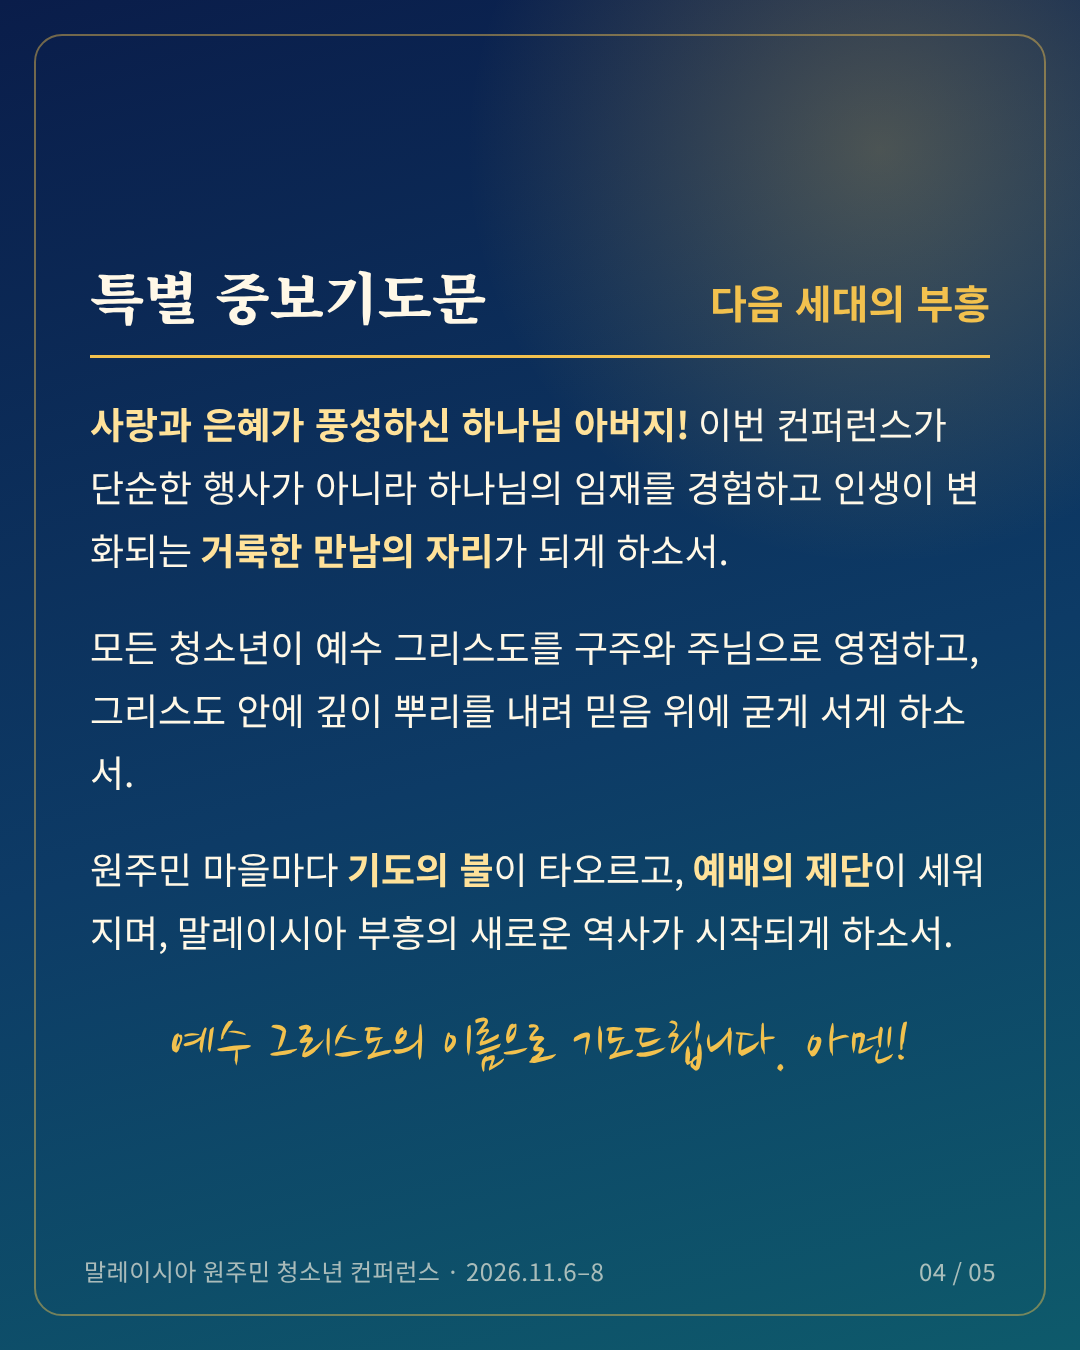
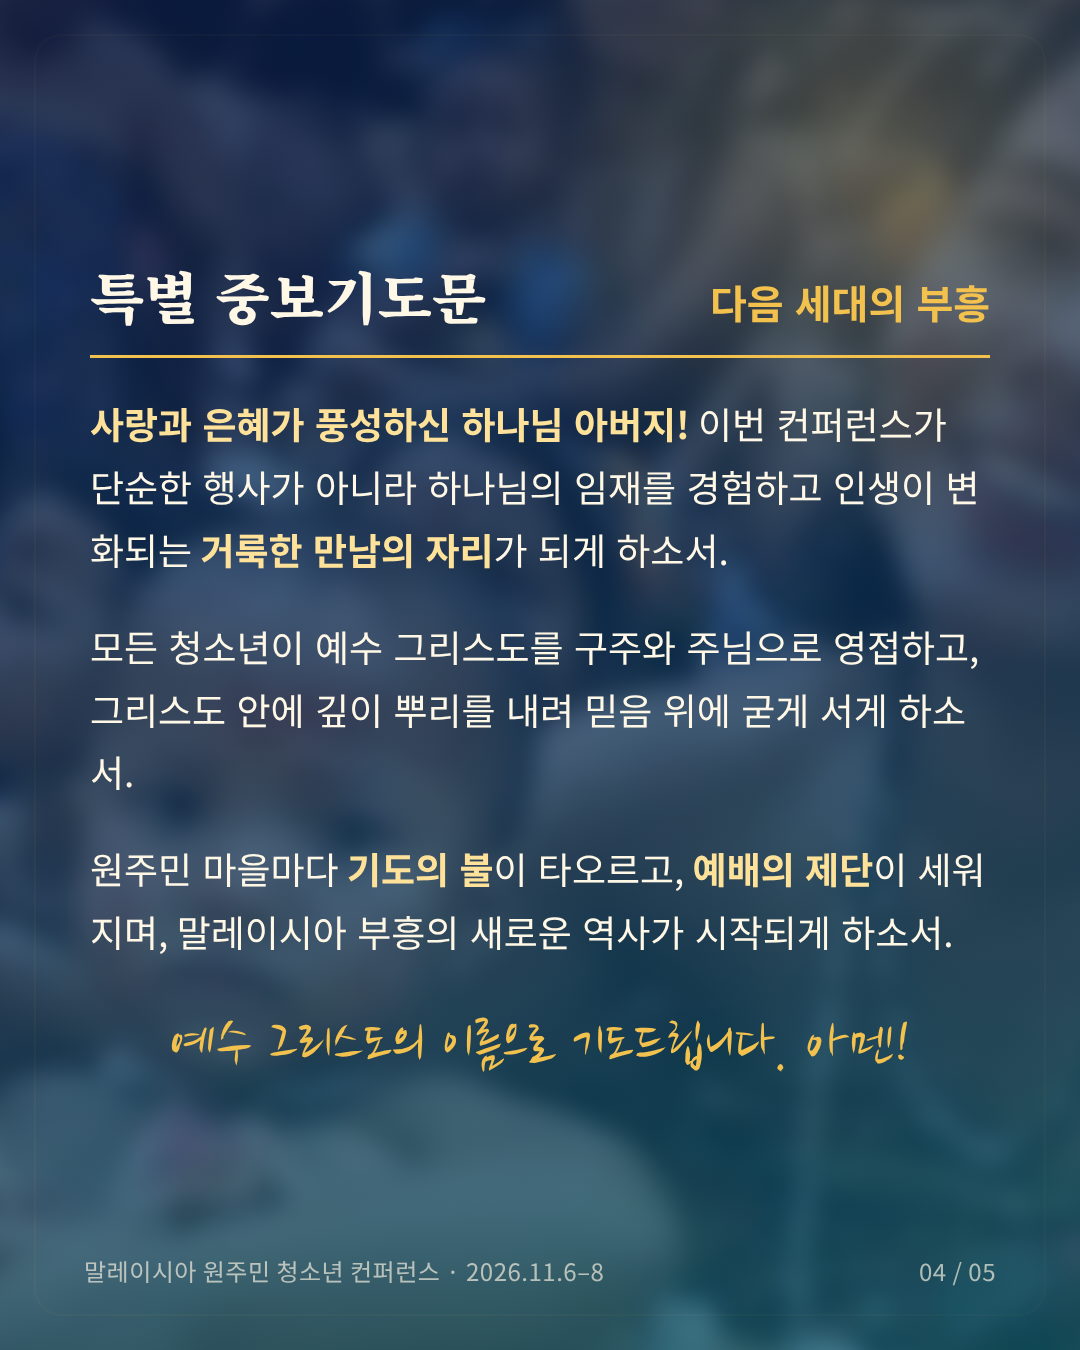
Add blurred photo backgrounds to card news and prayer letter
Claude-Session: https://claude.ai/code/session_01VtibxV4NqRSYxh7RdkETjb

diff --git a/cardnews/cards.html b/cardnews/cards.html
@@ -38,9 +38,9 @@ h1.mid{font-size:84px}
 .days{display:flex;flex-direction:column;gap:22px;position:relative;z-index:1}.two2 .day{padding:34px 40px}.two2 .verse{font-size:56px}
 .rows{display:flex;flex-direction:column;gap:12px;position:relative;z-index:1}.row{display:flex;align-items:center;gap:28px;background:rgba(255,255,255,.07);border-radius:20px;padding:12px 28px}.num.sm{width:56px;height:56px;font-size:28px}.rt{font-size:38px;font-weight:700;color:#fff8e7}
 .list{justify-content:flex-start;padding-top:100px;gap:28px}
-.photo{position:absolute;inset:-40px;width:calc(100% + 80px);height:calc(100% + 80px);object-fit:cover;filter:blur(9px) saturate(.9);opacity:.75}
+.photo{position:absolute;inset:-40px;width:calc(100% + 80px);height:calc(100% + 80px);object-fit:cover;filter:blur(12px) saturate(.9);opacity:.8}
 .shade{position:absolute;inset:0;background:linear-gradient(165deg,rgba(10,29,74,.72),rgba(13,59,102,.6) 55%,rgba(14,90,107,.7))}
-</style><body><section class="card cover"><div class="glow"></div><div class="center"><div class="pill">PRAYER CARD NEWS</div>
+</style><body><section class="card cover"><img class="photo" src="photo_a.jpg"><div class="shade"></div><div class="glow"></div><div class="center"><div class="pill">PRAYER CARD NEWS</div>
 <div class="small">말레이시아 원주민 마을</div><h1>청소년 컨퍼런스를<br>위한 기도</h1>
 <div class="brush">그리스도 안에 뿌리를 내리고<br>믿음 위에 세움을 받으라</div>
 <div class="date">2026년 11월 6일 – 8일</div></div><svg class="roots" viewBox="0 0 1080 360" preserveAspectRatio="none"><g fill="none" stroke="#f2c14e" stroke-linecap="round" opacity=".35">
@@ -49,19 +49,19 @@ h1.mid{font-size:84px}
 <path d="M540 140 C610 170 700 200 760 260 C800 300 840 330 900 350" stroke-width="9"/>
 <path d="M540 200 C560 250 600 290 640 350" stroke-width="7"/>
 <path d="M330 250 C300 280 300 310 270 350" stroke-width="5"/><path d="M760 260 C790 290 780 320 810 350" stroke-width="5"/></g></svg>
-  <div class="foot"><span>말레이시아 원주민 청소년 컨퍼런스 · 2026.11.6–8</span><span>01 / 05</span></div></section><section class="card two2"><div class="glow"></div><div class="center"><div class="label">주제 말씀 · 골로새서 2:7</div>
+  <div class="foot"><span>말레이시아 원주민 청소년 컨퍼런스 · 2026.11.6–8</span><span>01 / 05</span></div></section><section class="card two2"><img class="photo" src="photo_c.jpg"><div class="shade"></div><div class="glow"></div><div class="center"><div class="label">주제 말씀 · 골로새서 2:7</div>
 <p class="verse">“그 안에 뿌리를 박으며 세움을 받아<br>교훈을 받은 대로 <b>믿음에 굳게 서서</b><br>감사함을 넘치게 하라.”</p></div>
 <div class="days">
 <div class="day"><div class="d">11.6</div><div><h3>예수님을 만나는 날</h3><p>요한복음 3:3</p></div></div>
 <div class="day"><div class="d">11.7</div><div><h3>믿음에 뿌리를 내리는 날</h3><p>골로새서 2:7</p></div></div>
 <div class="day"><div class="d">11.8</div><div><h3>부르심과 사명으로 일어나는 날</h3><p>이사야 6:8</p></div></div></div>
-  <div class="foot"><span>말레이시아 원주민 청소년 컨퍼런스 · 2026.11.6–8</span><span>02 / 05</span></div></section><section class="card list"><div class="glow"></div><div class="head"><span>10가지 기도 제목</span><b>PRAY</b></div><div class="rows"><div class="row"><div class="num sm">1</div><div class="rt">청소년들의 마음을 준비하도록</div></div><div class="row"><div class="num sm">2</div><div class="rt">성령의 임재와 기름 부으심</div></div><div class="row"><div class="num sm">3</div><div class="rt">말씀을 통한 믿음의 뿌리</div></div><div class="row"><div class="num sm">4</div><div class="rt">다음 세대의 정체성과 비전</div></div><div class="row"><div class="num sm">5</div><div class="rt">죄와 어둠의 권세로부터 보호</div></div><div class="row"><div class="num sm">6</div><div class="rt">찬양과 예배의 부흥</div></div><div class="row"><div class="num sm">7</div><div class="rt">강사와 사역자들에게 성령의 능력을</div></div><div class="row"><div class="num sm">8</div><div class="rt">안전과 건강을 위한 보호</div></div><div class="row"><div class="num sm">9</div><div class="rt">가정과 마을의 구원과 회복</div></div><div class="row"><div class="num sm">10</div><div class="rt">말레이시아 부흥의 새로운 세대</div></div></div>
-  <div class="foot"><span>말레이시아 원주민 청소년 컨퍼런스 · 2026.11.6–8</span><span>03 / 05</span></div></section><section class="card "><div class="glow"></div><div class="head"><span>특별 중보기도문</span><b>다음 세대의 부흥</b></div>
+  <div class="foot"><span>말레이시아 원주민 청소년 컨퍼런스 · 2026.11.6–8</span><span>02 / 05</span></div></section><section class="card list"><img class="photo" src="photo_b.jpg"><div class="shade"></div><div class="glow"></div><div class="head"><span>10가지 기도 제목</span><b>PRAY</b></div><div class="rows"><div class="row"><div class="num sm">1</div><div class="rt">청소년들의 마음을 준비하도록</div></div><div class="row"><div class="num sm">2</div><div class="rt">성령의 임재와 기름 부으심</div></div><div class="row"><div class="num sm">3</div><div class="rt">말씀을 통한 믿음의 뿌리</div></div><div class="row"><div class="num sm">4</div><div class="rt">다음 세대의 정체성과 비전</div></div><div class="row"><div class="num sm">5</div><div class="rt">죄와 어둠의 권세로부터 보호</div></div><div class="row"><div class="num sm">6</div><div class="rt">찬양과 예배의 부흥</div></div><div class="row"><div class="num sm">7</div><div class="rt">강사와 사역자들에게 성령의 능력을</div></div><div class="row"><div class="num sm">8</div><div class="rt">안전과 건강을 위한 보호</div></div><div class="row"><div class="num sm">9</div><div class="rt">가정과 마을의 구원과 회복</div></div><div class="row"><div class="num sm">10</div><div class="rt">말레이시아 부흥의 새로운 세대</div></div></div>
+  <div class="foot"><span>말레이시아 원주민 청소년 컨퍼런스 · 2026.11.6–8</span><span>03 / 05</span></div></section><section class="card "><img class="photo" src="photo_c.jpg"><div class="shade"></div><div class="glow"></div><div class="head"><span>특별 중보기도문</span><b>다음 세대의 부흥</b></div>
 <p class="body"><b>사랑과 은혜가 풍성하신 하나님 아버지!</b> 이번 컨퍼런스가 단순한 행사가 아니라 하나님의 임재를 경험하고 인생이 변화되는 <b>거룩한 만남의 자리</b>가 되게 하소서.</p>
 <p class="body">모든 청소년이 예수 그리스도를 구주와 주님으로 영접하고, 그리스도 안에 깊이 뿌리를 내려 믿음 위에 굳게 서게 하소서.</p>
 <p class="body">원주민 마을마다 <b>기도의 불</b>이 타오르고, <b>예배의 제단</b>이 세워지며, 말레이시아 부흥의 새로운 역사가 시작되게 하소서.</p>
 <p class="amen">예수 그리스도의 이름으로 기도드립니다. 아멘!</p>
-  <div class="foot"><span>말레이시아 원주민 청소년 컨퍼런스 · 2026.11.6–8</span><span>04 / 05</span></div></section><section class="card cover"><div class="glow"></div><div class="center"><div class="brush big">원주민 마을마다<br>기도의 불이 타오르게 하소서</div>
+  <div class="foot"><span>말레이시아 원주민 청소년 컨퍼런스 · 2026.11.6–8</span><span>04 / 05</span></div></section><section class="card cover"><img class="photo" src="photo_a.jpg"><div class="shade"></div><div class="glow"></div><div class="center"><div class="brush big">원주민 마을마다<br>기도의 불이 타오르게 하소서</div>
 <div class="pill">함께 기도해 주세요</div>
 <p class="body c">11월 6일 – 8일, 3일간의 은혜의 자리를 위해<br>이 카드를 나누고 기도에 동참해 주세요.</p></div><svg class="roots" viewBox="0 0 1080 360" preserveAspectRatio="none"><g fill="none" stroke="#f2c14e" stroke-linecap="round" opacity=".35">
 <path d="M540 0 C540 80 540 140 540 200 C540 260 520 300 470 340" stroke-width="14"/>

diff --git a/letter/letter.html b/letter/letter.html
@@ -4,7 +4,7 @@
 @font-face{font-family:B;src:url(NanumBrushScript-Regular.ttf)}
 *{box-sizing:border-box;margin:0}
 .card{width:1080px;height:1350px;position:relative;overflow:hidden;color:#fff8e7;background:#10261a;padding:90px 96px 120px;display:flex;flex-direction:column;justify-content:center;gap:30px}
-.photo{position:absolute;inset:-40px;width:calc(100% + 80px);height:calc(100% + 80px);object-fit:cover;filter:blur(9px) saturate(.9);opacity:.8}
+.photo{position:absolute;inset:-40px;width:calc(100% + 80px);height:calc(100% + 80px);object-fit:cover;filter:blur(12px) saturate(.9);opacity:.85}
 .shade{position:absolute;inset:0;background:linear-gradient(180deg,rgba(8,22,40,.6),rgba(8,22,40,.5) 45%,rgba(8,22,40,.78))}
 .card:before{content:"";position:absolute;inset:34px;border:2px solid rgba(242,193,78,.5);border-radius:28px;z-index:2}
 .in{position:relative;z-index:3;display:flex;flex-direction:column;gap:22px}
@@ -17,13 +17,7 @@ p{font:400 33px/1.7 Se;word-break:keep-all}p b{color:#ffe29a;font-weight:700}
 .verse{border-left:5px solid #f2c14e;padding:6px 0 6px 28px;font:500 38px/1.6 Se;color:#ffe29a}.verse small{display:block;font:400 28px S;color:rgba(255,248,231,.75);margin-top:6px}
 .ask{text-align:center;font:400 60px/1.3 B;color:#f2c14e}
 .foot{position:absolute;left:84px;right:84px;bottom:56px;z-index:3;display:flex;justify-content:center;font:400 24px S;color:rgba(255,248,231,.7)}
-</style><body><section class="card"><svg class="photo" viewBox="0 0 1080 1350" preserveAspectRatio="xMidYMid slice"><defs><linearGradient id="s" x1="0" y1="0" x2="0" y2="1"><stop offset="0" stop-color="#f6c76b"/><stop offset=".45" stop-color="#e58a4b"/><stop offset="1" stop-color="#2d5a3d"/></linearGradient></defs>
-<rect width="1080" height="1350" fill="url(#s)"/><circle cx="780" cy="420" r="130" fill="#fff3c4" opacity=".8"/>
-<path d="M0 820 C150 700 300 760 440 690 C600 610 760 720 1080 640 L1080 1350 L0 1350Z" fill="#3b6b4a"/>
-<path d="M0 960 C200 860 380 930 560 850 C760 770 920 880 1080 820 L1080 1350 L0 1350Z" fill="#244a33"/>
-<path d="M0 1100 C260 1010 480 1090 700 1030 C880 980 980 1060 1080 1020 L1080 1350 L0 1350Z" fill="#17331f"/>
-<g fill="#10261a"><path d="M120 1350 L120 760 L128 760 L128 1350Z"/><path d="M900 1350 L900 700 L910 700 L910 1350Z"/></g>
-<g fill="#10261a"><ellipse cx="124" cy="760" rx="150" ry="60" transform="rotate(-12 124 760)"/><ellipse cx="905" cy="700" rx="170" ry="64" transform="rotate(10 905 700)"/></g></svg><div class="shade"></div><div class="in">
+</style><body><section class="card"><img class="photo" src="photo_a.jpg"><div class="shade"></div><div class="in">
 <div class="pill">기도 편지</div>
 <h1>처음으로 가는 원주민 선교<span>함께 기도해 주세요</span></h1><div class="rule"></div>
 <p class="to">사랑하는 동역자님께,</p>

diff --git a/cardnews/build.js b/cardnews/build.js
@@ -7,9 +7,9 @@ const roots = `<svg class="roots" viewBox="0 0 1080 360" preserveAspectRatio="no
 <path d="M540 140 C610 170 700 200 760 260 C800 300 840 330 900 350" stroke-width="9"/>
 <path d="M540 200 C560 250 600 290 640 350" stroke-width="7"/>
 <path d="M330 250 C300 280 300 310 270 350" stroke-width="5"/><path d="M760 260 C790 290 780 320 810 350" stroke-width="5"/></g></svg>`;
-const hasPhoto = fs.existsSync('photo.jpg');
+const photos=['photo_a.jpg','photo_c.jpg','photo_b.jpg','photo_c.jpg','photo_a.jpg'];
 function card(n, total, inner, cls = '') {
-  return `<section class="card ${cls}">${hasPhoto ? '<img class="photo" src="photo.jpg"><div class="shade"></div>' : ''}<div class="glow"></div>${inner}
+  return `<section class="card ${cls}"><img class="photo" src="${photos[n-1]}"><div class="shade"></div><div class="glow"></div>${inner}
   <div class="foot"><span>${FOOT}</span><span>${String(n).padStart(2, '0')} / ${String(total).padStart(2, '0')}</span></div></section>`;
 }
 const prayers = [
@@ -88,7 +88,7 @@ h1.mid{font-size:84px}
 .days{display:flex;flex-direction:column;gap:22px;position:relative;z-index:1}.two2 .day{padding:34px 40px}.two2 .verse{font-size:56px}
 .rows{display:flex;flex-direction:column;gap:12px;position:relative;z-index:1}.row{display:flex;align-items:center;gap:28px;background:rgba(255,255,255,.07);border-radius:20px;padding:12px 28px}.num.sm{width:56px;height:56px;font-size:28px}.rt{font-size:38px;font-weight:700;color:#fff8e7}
 .list{justify-content:flex-start;padding-top:100px;gap:28px}
-.photo{position:absolute;inset:-40px;width:calc(100% + 80px);height:calc(100% + 80px);object-fit:cover;filter:blur(9px) saturate(.9);opacity:.75}
+.photo{position:absolute;inset:-40px;width:calc(100% + 80px);height:calc(100% + 80px);object-fit:cover;filter:blur(12px) saturate(.9);opacity:.8}
 .shade{position:absolute;inset:0;background:linear-gradient(165deg,rgba(10,29,74,.72),rgba(13,59,102,.6) 55%,rgba(14,90,107,.7))}
 </style><body>${cards.join('')}`;
 fs.writeFileSync('cards.html', html);

diff --git a/letter/build.js b/letter/build.js
@@ -1,6 +1,6 @@
 const { chromium } = require('playwright');
 const fs = require('fs');
-const photo = fs.existsSync('photo.jpg') ? 'photo.jpg' : null;
+const photo = 'photo_a.jpg';
 const bg = photo
   ? `<img class="photo" src="${photo}">`
   : `<svg class="photo" viewBox="0 0 1080 1350" preserveAspectRatio="xMidYMid slice"><defs><linearGradient id="s" x1="0" y1="0" x2="0" y2="1"><stop offset="0" stop-color="#f6c76b"/><stop offset=".45" stop-color="#e58a4b"/><stop offset="1" stop-color="#2d5a3d"/></linearGradient></defs>
@@ -16,7 +16,7 @@ const html = `<!doctype html><meta charset="utf-8"><style>
 @font-face{font-family:B;src:url(NanumBrushScript-Regular.ttf)}
 *{box-sizing:border-box;margin:0}
 .card{width:1080px;height:1350px;position:relative;overflow:hidden;color:#fff8e7;background:#10261a;padding:90px 96px 120px;display:flex;flex-direction:column;justify-content:center;gap:30px}
-.photo{position:absolute;inset:-40px;width:calc(100% + 80px);height:calc(100% + 80px);object-fit:cover;filter:blur(9px) saturate(.9);opacity:.8}
+.photo{position:absolute;inset:-40px;width:calc(100% + 80px);height:calc(100% + 80px);object-fit:cover;filter:blur(12px) saturate(.9);opacity:.85}
 .shade{position:absolute;inset:0;background:linear-gradient(180deg,rgba(8,22,40,.6),rgba(8,22,40,.5) 45%,rgba(8,22,40,.78))}
 .card:before{content:"";position:absolute;inset:34px;border:2px solid rgba(242,193,78,.5);border-radius:28px;z-index:2}
 .in{position:relative;z-index:3;display:flex;flex-direction:column;gap:22px}
